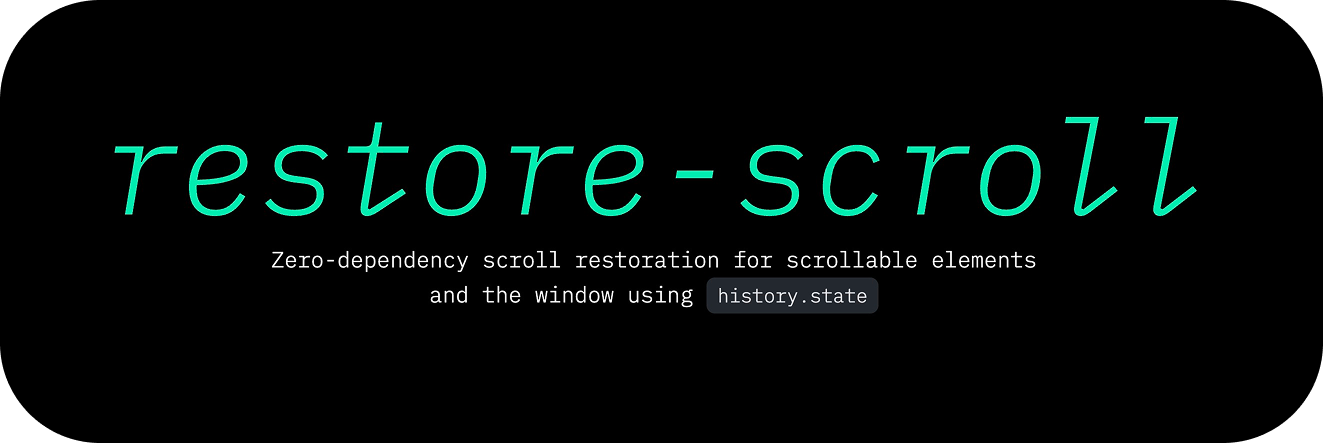
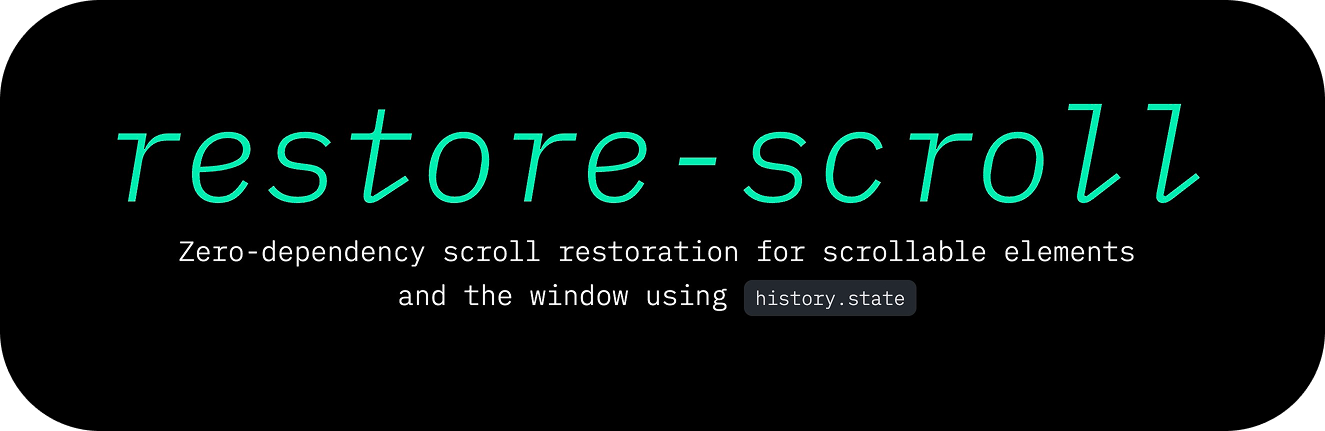
Update cover image

diff --git a/README.md b/README.md
@@ -1,4 +1,4 @@
-[![@hirasso/restore-scroll](./.art/restore-scroll-cover.png?v3)](https://restore-scroll.netlify.app)
+[![@hirasso/restore-scroll](./.art/restore-scroll-cover.png?v4)](https://restore-scroll.netlify.app)
 
 <div align="center">
 
